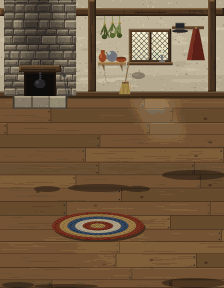
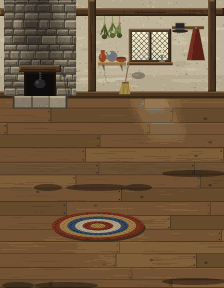
LLM-969 review: pieces kept inside their rects; geometry declared and checked
paint_pieces paints each piece on its own canvas and refuses art outside
its rect (the client cuts by it), which caught the bed's finials and the
table's grain. homes.py declares each room's geometry once and --check
requires interior_rooms.gd to match it exactly (pieces with sort lines,
covers, the fire's sheet, frames and position). The preview is described
as an anchor and layering view. A panel test taps furniture and a person
in the density-2 room.

diff --git a/tools/interior-art/homes.py b/tools/interior-art/homes.py
@@ -3,21 +3,24 @@ the floor plan's `art` (LLM-782). Every pixel is drawn here, no pack art.
 
     python tools/interior-art/homes.py
     python tools/interior-art/homes.py --out DIR   # elsewhere (prototypes)
-    python tools/interior-art/homes.py --check     # a fresh paint, sizes, rects
+    python tools/interior-art/homes.py --check     # a fresh paint, sizes, geometry
 
 Writes client/assets/interiors/<art>_common.png and <art>_pieces.png for each
-home here, and home_fire.png, the hearth fire (4 frames of 16x16, played at
-the room's anim x/y). See common.py for the view, the sheets and the kit.
+home here, and home_fire.png, the hearth fire (4 frames of 16x16 room px),
+all at density 2. See common.py for the view, the sheets and the kit.
 
-A 1690s New England house: whitewashed plaster between oak framing, a
-fieldstone hearth, a small leaded casement, wide pine floorboards; joined oak
-beds under wool coverlets (madder red, indigo), a trestle table, ladder-back
-chairs, a cupboard with pewter, a blanket chest.
+A 1690s New England house: limewashed plaster between oak framing, a
+fieldstone hearth with a trammel and pot, a small leaded casement, wide pine
+floorboards; joined oak beds under wool coverlets (indigo overshot, madder
+check), a trestle table laid with a trencher, a jug and a loaf, ladder-back
+rush-seat chairs, a cupboard with pewter and redware, a blanket chest; herbs
+drying, a crockery shelf, a peg rail, a broom, a braided rug.
 
-The pieces stand exactly where interior_rooms.gd's entry for the room says
-(its rects and sort lines, which put people on and behind them), and --check
-holds the two together: every piece's rect must hold art, and every cover
-rect must hold the coverlet.
+Each room's geometry is declared once here (ROOMS): its size, every piece's
+rect and sort line with its painter, every bed's cover rect, every anim's
+sheet, frame count and position. The painters draw from it, and --check
+requires the room's entry in interior_rooms.gd to say exactly the same, so
+the art and the lines that put people on and behind it cannot drift apart.
 """
 
 import argparse
@@ -33,6 +36,8 @@ import common as C
 # entry "density": 2).
 C.set_density(2)
 
+FIRE = "res://assets/interiors/home_fire.png"
+
 
 def red_tiny_room(seed=969):
     """home_red_tiny, 112 x 144: the back wall (rows 0-2) with the hearth at
@@ -42,8 +47,8 @@ def red_tiny_room(seed=969):
     room = C.Room(w, h)
     C.floorboards(room, 0, wall, w, h, rnd)
     C.plaster_wall(room, 0, w, 0, wall - 2, rnd)
-    # The frame: a girt across under the ceiling, posts at the corners and
-    # between the hearth and the window, a brace.
+    # The frame: a girt across under the ceiling, posts between the hearth
+    # and the window and at the right.
     C.timber(room, 0, 4, w, 8, 0.42, rnd)
     for px in (44, 104):
         C.timber(room, px, 0, px + 4, wall - 2, 0.4, rnd)
@@ -51,7 +56,9 @@ def red_tiny_room(seed=969):
     C.wear(room, 56, 126, 16, 14)
     C.light_pool(room, 66, wall + 1, 84, wall + 24, 80)
     C.wall_foot(room, 0, w, wall)
-    C.hearth(room, 2, 38, 0, wall, (12, 36, 16, 16), rnd)
+    # The hearth's firebox is where the fire anim plays (ROOMS anims).
+    fire = ROOMS["home_red_tiny"]["anims"][0]
+    C.hearth(room, 2, 38, 0, wall, (fire[2], fire[3], 16, 16), rnd)
     # What hangs on the walls: herbs drying from the girt, a shelf of
     # crockery, a peg rail with a hat and a cloak over the north bed, a broom.
     C.herb_bundles(room, 50, 63, 8, rnd, 3)
@@ -60,26 +67,47 @@ def red_tiny_room(seed=969):
     C.broom(room, 62, 47, 20)
     # A braided rag rug between the table and the beds.
     C.rag_rug(room, 26, 106, 72, 120, rnd)
-    # Where the furniture stands, its shadow on the floor (down and right).
-    # Compact and dark, right under each piece's feet and lower edge.
-    for x0, y0, x1, y1 in ((81, 85, 113, 90), (81, 139, 113, 144), (34, 92, 66, 96), (17, 93, 30, 96), (62, 93, 75, 96),
-                           (1, 141, 17, 144), (17, 142, 49, 144)):
-        room.shadow(x0, y0, x1, y1, 220)
+    # Each piece's shadow on the floor, compact and dark under its feet and
+    # lower edge.
+    for (x, y, pw, ph, _sort), _painter in ROOMS["home_red_tiny"]["pieces"]:
+        room.shadow(x + 1, y + ph - 3, x + pw + 1, y + ph + 0.5, 220)
     return C.shrink(room, C.ROOM_PALETTE)
 
 
 def red_tiny_pieces(seed=970):
-    w, h = 112, 144
     rnd = random.Random(seed)
-    room = C.Room(w, h)
-    C.rope_bed(room, 80, 44, 32, 44, C.INDIGO, rnd, "overshot")
-    C.rope_bed(room, 80, 98, 32, 44, C.MADDER, rnd, "check")
-    C.trestle_table(room, 32, 70, 32, 25, rnd)
-    C.ladder_chair(room, 16, 68, 14, 27, back_left=True)
-    C.ladder_chair(room, 61, 68, 14, 27, back_left=False)
-    C.cupboard(room, 0, 96, 16, 48)
-    C.blanket_chest(room, 16, 128, 32, 16)
-    return C.shrink(room, C.PIECE_PALETTE, outline=0.35, ring=0.18)
+    spec = ROOMS["home_red_tiny"]
+    return C.paint_pieces(*spec["size"], [((x, y, w, h), (lambda room, p=painter, r=(x, y, w, h): p(room, *r, rnd)))
+                                         for (x, y, w, h, _sort), painter in spec["pieces"]], C.PIECE_PALETTE)
+
+
+def _bed(cover, pattern):
+    return lambda room, x, y, w, h, rnd: C.rope_bed(room, x, y, w, h, cover, rnd, pattern)
+
+
+def _chair(back_left):
+    return lambda room, x, y, w, h, rnd: C.ladder_chair(room, x, y, w, h, back_left=back_left)
+
+
+ROOMS = {
+    "home_red_tiny": {
+        "sheets": ("home_red_tiny_common", "home_red_tiny_pieces"),
+        "size": (112, 144),
+        # ((x, y, w, h, sort_y), painter): the rects and sort lines the
+        # floor plan's stations were laid out against.
+        "pieces": [
+            ((80, 44, 32, 44, 71), _bed(C.INDIGO, "overshot")),
+            ((80, 98, 32, 44, 125), _bed(C.MADDER, "check")),
+            ((32, 70, 32, 25, 88), lambda room, x, y, w, h, rnd: C.trestle_table(room, x, y, w, h, rnd)),
+            ((16, 68, 14, 27, 89), _chair(True)),
+            ((61, 68, 14, 27, 89), _chair(False)),
+            ((0, 96, 16, 48, 143), lambda room, x, y, w, h, rnd: C.cupboard(room, x, y, w, h)),
+            ((16, 128, 32, 16, 143), lambda room, x, y, w, h, rnd: C.blanket_chest(room, x, y, w, h)),
+        ],
+        "covers": {"bed_north": (80, 56, 32, 32), "bed_south": (80, 110, 32, 32)},
+        "anims": [(FIRE, 4, 12, 36)],
+    },
+}
 
 
 def home_fire():
@@ -91,23 +119,22 @@ SHEETS = {
     "home_red_tiny_pieces": red_tiny_pieces,
     "home_fire": home_fire,
 }
-# The interior_rooms.gd entries this module paints, by key.
-ROOMS = {"home_red_tiny": ("home_red_tiny_common", "home_red_tiny_pieces")}
-# Art px: the rooms at twice their room px (112 x 144), the fire 4 frames of
-# 16 x 16 room px.
+# Art px: the rooms at twice their room px, the fire 4 frames of 16 x 16
+# room px.
 SIZES = {"home_red_tiny_common": (224, 288), "home_red_tiny_pieces": (224, 288), "home_fire": (128, 32)}
 
 
 def check(out_dir):
-    """Each sheet is exactly what this script paints now and of its size; the
-    room entry points at these sheets; every piece's rect holds art; every
-    cover rect lies inside its bed's piece and holds the coverlet; every anim
-    this module paints is a strip of the entry's frame count."""
+    """Each sheet is exactly what this script paints now and of its size;
+    each room's entry in interior_rooms.gd names these sheets at this
+    density and size, and has exactly the declared pieces (rects and sort
+    lines, in order), covers and anims (sheet, frames, position); every cover
+    rect lies inside its bed's piece and holds the coverlet; every anim strip
+    painted here is whole square frames."""
     ok = True
     sheets = {}
     for name, build in SHEETS.items():
-        path = os.path.join(out_dir, name + ".png")
-        sheet = Image.open(path).convert("RGBA")
+        sheet = Image.open(os.path.join(out_dir, name + ".png")).convert("RGBA")
         fresh = build()
         if sheet.size != fresh.size or sheet.tobytes() != fresh.tobytes():
             print("%s: the saved sheet differs from a fresh paint (rerun homes.py)" % name)
@@ -116,36 +143,38 @@ def check(out_dir):
             print("%s: %dx%d, not %dx%d" % ((name,) + sheet.size + SIZES[name]))
             ok = False
         sheets[name] = sheet
-    for key, (common, pieces) in ROOMS.items():
+    for key, spec in ROOMS.items():
         entry = C.room_entry(key)
+        common, pieces = spec["sheets"]
         want = {"sheet": "res://assets/interiors/%s.png" % common, "pieces_sheet": "res://assets/interiors/%s.png" % pieces}
-        if entry["sheets"] != want:
-            print("%s: interior_rooms.gd sheets are %s, not %s" % (key, entry["sheets"], want))
-            ok = False
-        d = entry["density"]
-        if d != C.DENSITY:
-            print("%s: the entry's density %d is not the painted %d" % (key, d, C.DENSITY))
-            ok = False
+        d = C.DENSITY
+        for label, got, expect in (
+                ("sheets", entry["sheets"], want),
+                ("density", entry["density"], d),
+                ("size", entry["size"], spec["size"]),
+                ("pieces", entry["pieces"], [r for r, _p in spec["pieces"]]),
+                ("covers", entry["covers"], spec["covers"]),
+                ("anims", entry["anims"], spec["anims"])):
+            if got != expect:
+                print("%s: interior_rooms.gd %s are %s, the painted %s" % (key, label, got, expect))
+                ok = False
         for name in (common, pieces):
-            if sheets[name].size != (entry["size"][0] * d, entry["size"][1] * d):
-                print("%s: %s is %s, not the entry's size %s at density %d" % (key, name, sheets[name].size, entry["size"], d))
+            if sheets[name].size != (spec["size"][0] * d, spec["size"][1] * d):
+                print("%s: %s is %s, not the room's size at density %d" % (key, name, sheets[name].size, d))
                 ok = False
         alpha = sheets[pieces].split()[3]
-        for x, y, w, h, _sort in entry["pieces"]:
-            box = alpha.crop((x * d, y * d, (x + w) * d, (y + h) * d)).getbbox()
-            if box is None:
-                print("%s: no art in the piece rect %s" % (key, (x, y, w, h)))
-                ok = False
-        for bed, (x, y, w, h) in entry["covers"].items():
-            inside = any(px <= x and py <= y and x + w <= px + pw and y + h <= py + ph for px, py, pw, ph, _ in entry["pieces"])
+        for bed, (x, y, w, h) in spec["covers"].items():
+            inside = any(px <= x and py <= y and x + w <= px + pw and y + h <= py + ph
+                         for (px, py, pw, ph, _s), _p in spec["pieces"])
             filled = alpha.crop(((x + 4) * d, (y + 2) * d, (x + w - 4) * d, (y + h - 8) * d)).getextrema()[0] == 255
             if not inside or not filled:
                 print("%s: cover %s %s is not a covered part of a bed piece" % (key, bed, (x, y, w, h)))
                 ok = False
-        for sheet, frames, _x, _y in entry["anims"]:
-            name = os.path.splitext(os.path.basename(sheet))[0]
-            if sheet.startswith("res://") and name in sheets and sheets[name].width != frames * sheets[name].height:
-                print("%s: anim %s is not %d square frames" % (key, name, frames))
+        for path, frames, _x, _y in spec["anims"]:
+            name = os.path.splitext(os.path.basename(path))[0]
+            strip = sheets.get(name)
+            if strip is None or strip.width != frames * strip.height:
+                print("%s: anim %s is not painted here as %d square frames" % (key, path, frames))
                 ok = False
     return ok
 

diff --git a/tools/interior-art/common.py b/tools/interior-art/common.py
@@ -174,6 +174,27 @@ def shrink(room, palette, outline=0.0, shadow_dark=0.45, ring=0.0):
     return out
 
 
+def paint_pieces(w, h, pieces, palette, outline=0.35, ring=0.18):
+    """The pieces sheet: each piece painted on its own canvas by its painter
+    (called with the Room; it draws in room px into its rect), shrunk, and
+    refused if any of its art falls outside its rect, since the client cuts a
+    piece by its rect and would clip the rest; then pasted into the sheet
+    cropped to its rect, so no piece bleeds into a neighbour.
+    pieces: [((x, y, w, h), painter)]."""
+    sheet = Image.new("RGBA", (w * DENSITY, h * DENSITY), (0, 0, 0, 0))
+    for (x, y, pw, ph), painter in pieces:
+        room = Room(w, h)
+        painter(room)
+        art = shrink(room, palette, outline=outline, ring=ring)
+        box = (x * DENSITY, y * DENSITY, (x + pw) * DENSITY, (y + ph) * DENSITY)
+        outside = art.copy()
+        outside.paste((0, 0, 0, 0), box)
+        if outside.getbbox() is not None:
+            raise ValueError("piece %s paints outside its rect, at %s (art px)" % ((x, y, pw, ph), outside.getbbox()))
+        sheet.alpha_composite(art.crop(box), box[:2])
+    return sheet
+
+
 # ---------------------------------------------------------------- walls and floors
 
 def plaster_wall(room, x0, x1, top, bottom, rnd):
@@ -636,19 +657,21 @@ def rope_bed(room, x, y, w, h, cover, rnd, pattern="check"):
 
     # The headboard: a frame with two panels, a lit top rail, tall turned
     # posts with finials.
-    room.rect(head_l + 1, y + 0.5, head_r - 1, head_bot, ramp(OAK, 0.5))
-    room.rect(head_l + 1, y + 0.5, head_r - 1, y + 1.6, ramp(OAK, 0.92))
+    # Everything stays inside the bed's rect (the client cuts the piece by
+    # it): the finials' tops at the rect's top edge.
+    room.rect(head_l + 1, y + 2.4, head_r - 1, head_bot, ramp(OAK, 0.5))
+    room.rect(head_l + 1, y + 2.4, head_r - 1, y + 3.4, ramp(OAK, 0.92))
     for px0, px1 in ((head_l + 3.6, x + w / 2 - 1), (x + w / 2 + 1, head_r - 3.6)):
-        room.rect(px0, y + 2.6, px1, y + 8.0, ramp(OAK, 0.34))
-        room.rect(px0, y + 2.6, px1, y + 3.2, ramp(OAK, 0.16))
-        room.rect(px0, y + 7.4, px1, y + 8.0, ramp(OAK, 0.66))
+        room.rect(px0, y + 4.4, px1, y + 8.6, ramp(OAK, 0.34))
+        room.rect(px0, y + 4.4, px1, y + 4.9, ramp(OAK, 0.16))
+        room.rect(px0, y + 8.0, px1, y + 8.6, ramp(OAK, 0.66))
     for px in (head_l - 0.2, head_r - 2.6):
-        room.rect(px, y - 0.6, px + 3, head_bot + 1.5, ramp(OAK, 0.56))
-        room.rect(px, y - 0.6, px + 1, head_bot + 1.5, ramp(OAK, 0.82))
-        room.rect(px + 2.2, y - 0.6, px + 3, head_bot + 1.5, ramp(OAK, 0.32))
-        room.ellipse(px - 0.4, y - 2.8, px + 3.4, y + 0.4, ramp(OAK, 0.72))
-        room.ellipse(px + 0.1, y - 2.4, px + 1.5, y - 1.0, ramp(OAK, 0.98))
-        room.rect(px, y + 4, px + 3, y + 4.6, ramp(OAK, 0.3))
+        room.rect(px, y + 1.8, px + 3, head_bot + 1.5, ramp(OAK, 0.56))
+        room.rect(px, y + 1.8, px + 1, head_bot + 1.5, ramp(OAK, 0.82))
+        room.rect(px + 2.2, y + 1.8, px + 3, head_bot + 1.5, ramp(OAK, 0.32))
+        room.ellipse(px - 0.2, y, px + 3.2, y + 3.0, ramp(OAK, 0.72))
+        room.ellipse(px + 0.3, y + 0.4, px + 1.5, y + 1.6, ramp(OAK, 0.98))
+        room.rect(px, y + 5.4, px + 3, y + 6.0, ramp(OAK, 0.3))
 
     # The coverlet's top surface: woven, then trimmed to the receding
     # trapezoid by the frame drawn back over its corners.
@@ -700,7 +723,7 @@ def rope_bed(room, x, y, w, h, cover, rnd, pattern="check"):
         room.rect(px, foot_top - 1.2, px + 3, y + h, ramp(OAK, 0.6))
         room.rect(px, foot_top - 1.2, px + 1, y + h, ramp(OAK, 0.84))
         room.rect(px + 2.2, foot_top - 1.2, px + 3, y + h, ramp(OAK, 0.3))
-        room.ellipse(px - 0.2, foot_top - 2.8, px + 3.2, foot_top - 0.4, ramp(OAK, 0.78))
+        room.ellipse(px, foot_top - 2.8, px + 3, foot_top - 0.4, ramp(OAK, 0.78))
         room.ellipse(px + 0.3, foot_top - 2.4, px + 1.5, foot_top - 1.4, ramp(OAK, 0.98))
 
 
@@ -722,7 +745,7 @@ def trestle_table(room, x, y, w, h, rnd=None, things=True):
     room.rect(x, y + top_h / 2, x + w, y + top_h, ramp(OAK, 0.72))
     for _ in range(10):
         gy, gx = rnd.uniform(y + 0.6, y + top_h - 0.6), rnd.uniform(x, x + w - 6)
-        room.rect(gx, gy, gx + rnd.uniform(4, 12), gy + 0.25, ramp(OAK, rnd.choice((0.6, 0.66, 0.88))))
+        room.rect(gx, gy, min(x + w, gx + rnd.uniform(4, 12)), gy + 0.25, ramp(OAK, rnd.choice((0.6, 0.66, 0.88))))
     room.rect(x, y + top_h / 2 - 0.3, x + w, y + top_h / 2 + 0.3, ramp(OAK, 0.3))
     room.rect(x, y, x + w, y + 0.7, ramp(OAK, 0.98))
     room.rect(x, y, x + 0.7, y + top_h, ramp(OAK, 0.9))
@@ -736,7 +759,7 @@ def trestle_table(room, x, y, w, h, rnd=None, things=True):
         jx = x + w - 8
         room.ellipse(jx - 2.2, y + 1.0, jx + 2.2, y + 7.0, ramp(REDWARE, 0.5))
         room.ellipse(jx - 1.6, y + 1.4, jx - 0.2, y + 4.0, ramp(REDWARE, 0.85))
-        room.rect(jx - 1.1, y - 0.4, jx + 1.1, y + 1.4, ramp(REDWARE, 0.42))
+        room.rect(jx - 1.1, y + 0.2, jx + 1.1, y + 1.4, ramp(REDWARE, 0.42))
         room.ellipse(x + 14, y + 2.2, x + 21, y + 6.4, ramp(STRAW, 0.55))
         room.ellipse(x + 14.6, y + 2.4, x + 19, y + 4.4, ramp(STRAW, 0.85))
         room.line([(x + 16, y + 3.0), (x + 17, y + 5.4)], ramp(STRAW, 0.3), 0.3)
@@ -749,14 +772,15 @@ def ladder_chair(room, x, y, w, h, back_left=True):
     front of the back."""
     seat_y = y + h * 0.55
     bx = x + 1 if back_left else x + w - 3
-    room.rect(bx - 0.4, y, bx + 2.4, y + h - 1, ramp(OAK, 0.32))
-    room.rect(bx - 0.4, y, bx + 0.8, y + h - 1, ramp(OAK, 0.66))
-    room.ellipse(bx - 0.9, y - 1.6, bx + 2.9, y + 1.2, ramp(OAK, 0.8))
-    room.ellipse(bx - 0.4, y - 1.2, bx + 1.0, y + 0.1, ramp(OAK, 0.98))
-    for sy in (y + 3, y + 6.5, y + 10):
-        room.rect(bx - 1.3, sy, bx + 3.3, sy + 1.9, ramp(OAK, 0.74))
-        room.rect(bx - 1.3, sy, bx + 3.3, sy + 0.5, ramp(OAK, 0.95))
-        room.rect(bx - 1.3, sy + 1.4, bx + 3.3, sy + 1.9, ramp(OAK, 0.28))
+    room.rect(bx - 0.4, y + 1.4, bx + 2.4, y + h - 1, ramp(OAK, 0.32))
+    room.rect(bx - 0.4, y + 1.4, bx + 0.8, y + h - 1, ramp(OAK, 0.66))
+    room.ellipse(bx - 0.5, y, bx + 2.5, y + 2.6, ramp(OAK, 0.8))
+    room.ellipse(bx - 0.1, y + 0.3, bx + 1.1, y + 1.3, ramp(OAK, 0.98))
+    for sy in (y + 4, y + 7, y + 10):
+        sl0, sl1 = max(x, bx - 1.3), min(x + w, bx + 3.3)
+        room.rect(sl0, sy, sl1, sy + 1.9, ramp(OAK, 0.74))
+        room.rect(sl0, sy, sl1, sy + 0.5, ramp(OAK, 0.95))
+        room.rect(sl0, sy + 1.4, sl1, sy + 1.9, ramp(OAK, 0.28))
     sx0, sx1 = (bx + 2, x + w - 0.4) if back_left else (x + 0.4, bx)
     room.rect(sx0, seat_y - 3.2, sx1, seat_y + 0.5, ramp(STRAW, 0.6))
     for k in range(int((sx1 - sx0) * 2)):

diff --git a/tools/interior-art/preview.py b/tools/interior-art/preview.py
@@ -2,8 +2,10 @@
 anims' first frames, then the pieces and people sorted by their feet / sort
 lines, each bed's sleeper under its cover, at a whole-pixel zoom. People
 stand at the floor plan's stations (engine/sim/roomlayout/layouts.json), so
-the preview shows whether they sit on the chairs, lie in the beds and stand
-behind the furniture.
+the preview shows where they stand and how they layer with the furniture:
+an anchor and layering view, not a pose check. Everyone is drawn as the same
+upright body at their feet point (the client draws a sleeper dozing and a
+sitter seated), with a bed's cover drawn again over its sleeper.
 
     python tools/interior-art/preview.py <room key> <sheet dir> <out.png> [zoom]
         [--villager PNG] [--density D]
